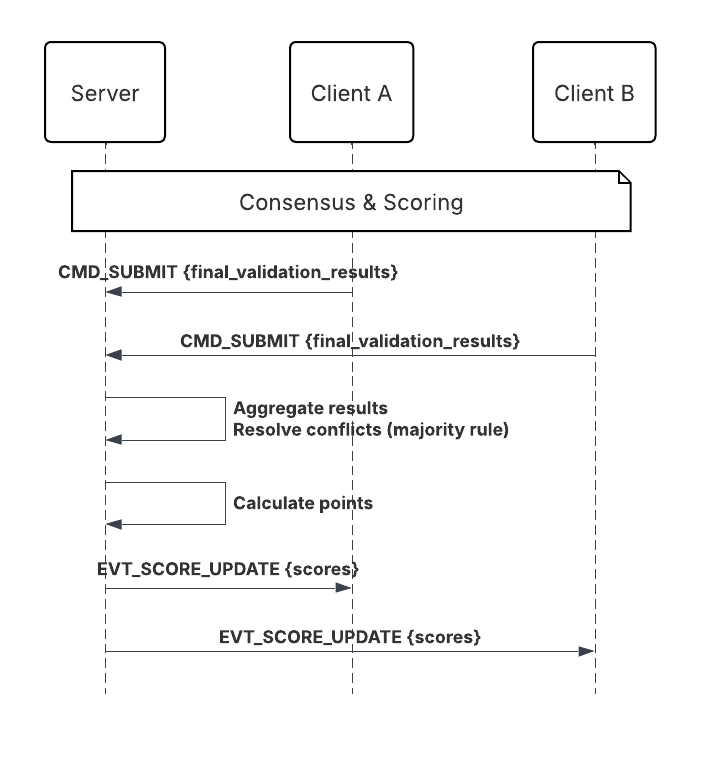
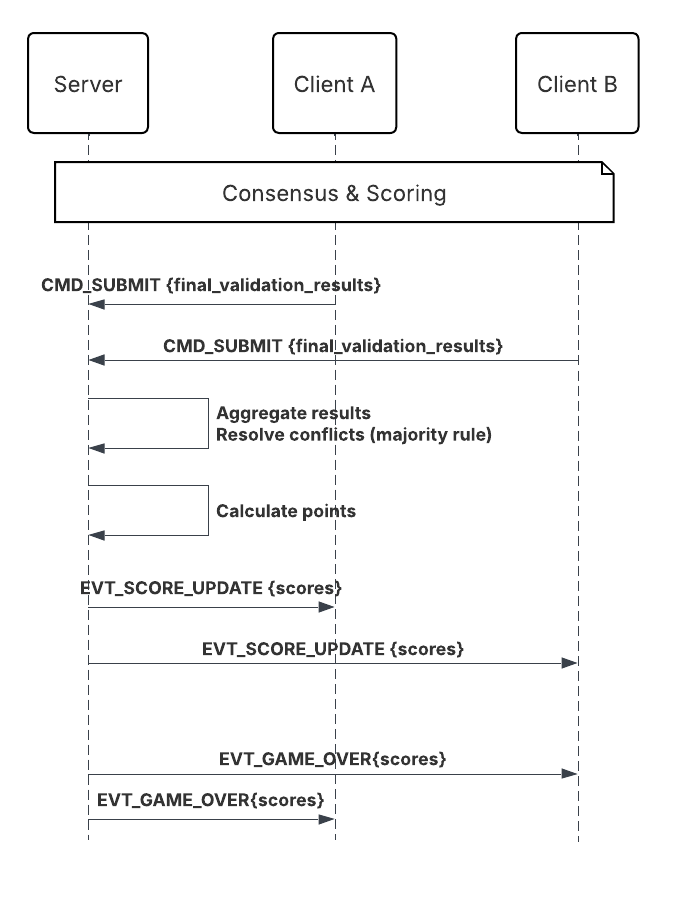
docs: fix messages and sequence diagrams

diff --git a/distributed-systems-final-report.tex b/distributed-systems-final-report.tex
@@ -360,7 +360,9 @@ Communication relies on serialized JSON messages, categorized by interaction typ
     \begin{itemize}
         \item \texttt{EVT\_ROUND\_START}: Contains the letter and categories.
         \item \texttt{EVT\_PEER\_MAP}: Updates the client with the list of other peers for P2P connection.
+        \item \texttt{EVT\_VOTING\_START}: Signals the beginning of the voting phase.
         \item \texttt{EVT\_SCORE\_UPDATE}: Broadcasts the new leaderboard after a round.
+        \item \texttt{EVT\_GAME\_OVER}: Announces the end of the game and the final scores.
     \end{itemize}
 
     \item \textbf{Peer Interactions (P2P Client $\leftrightarrow$ Client):} 
